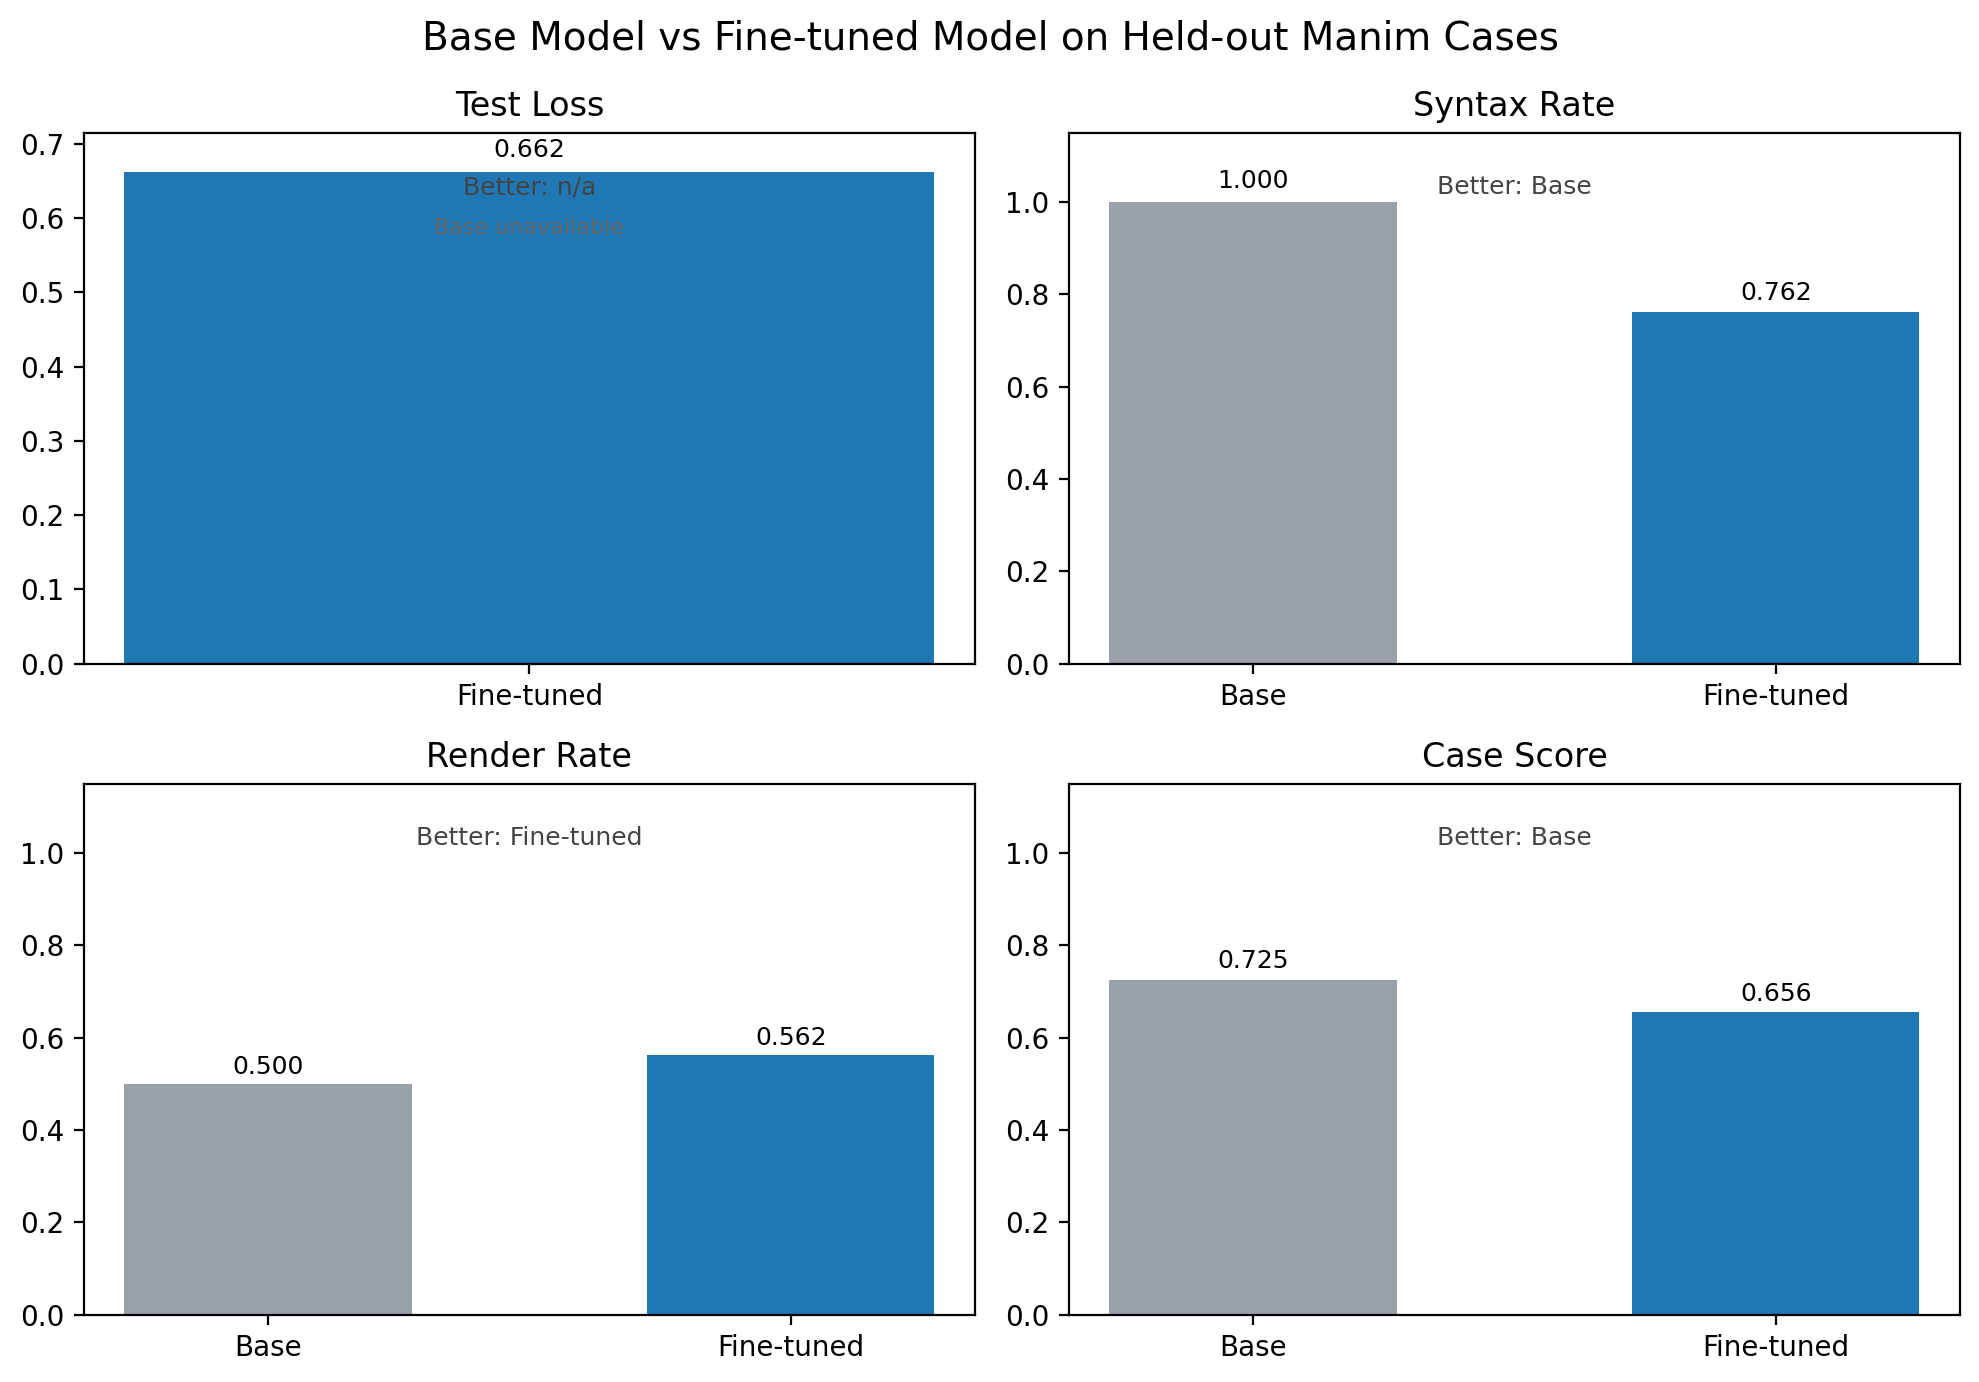
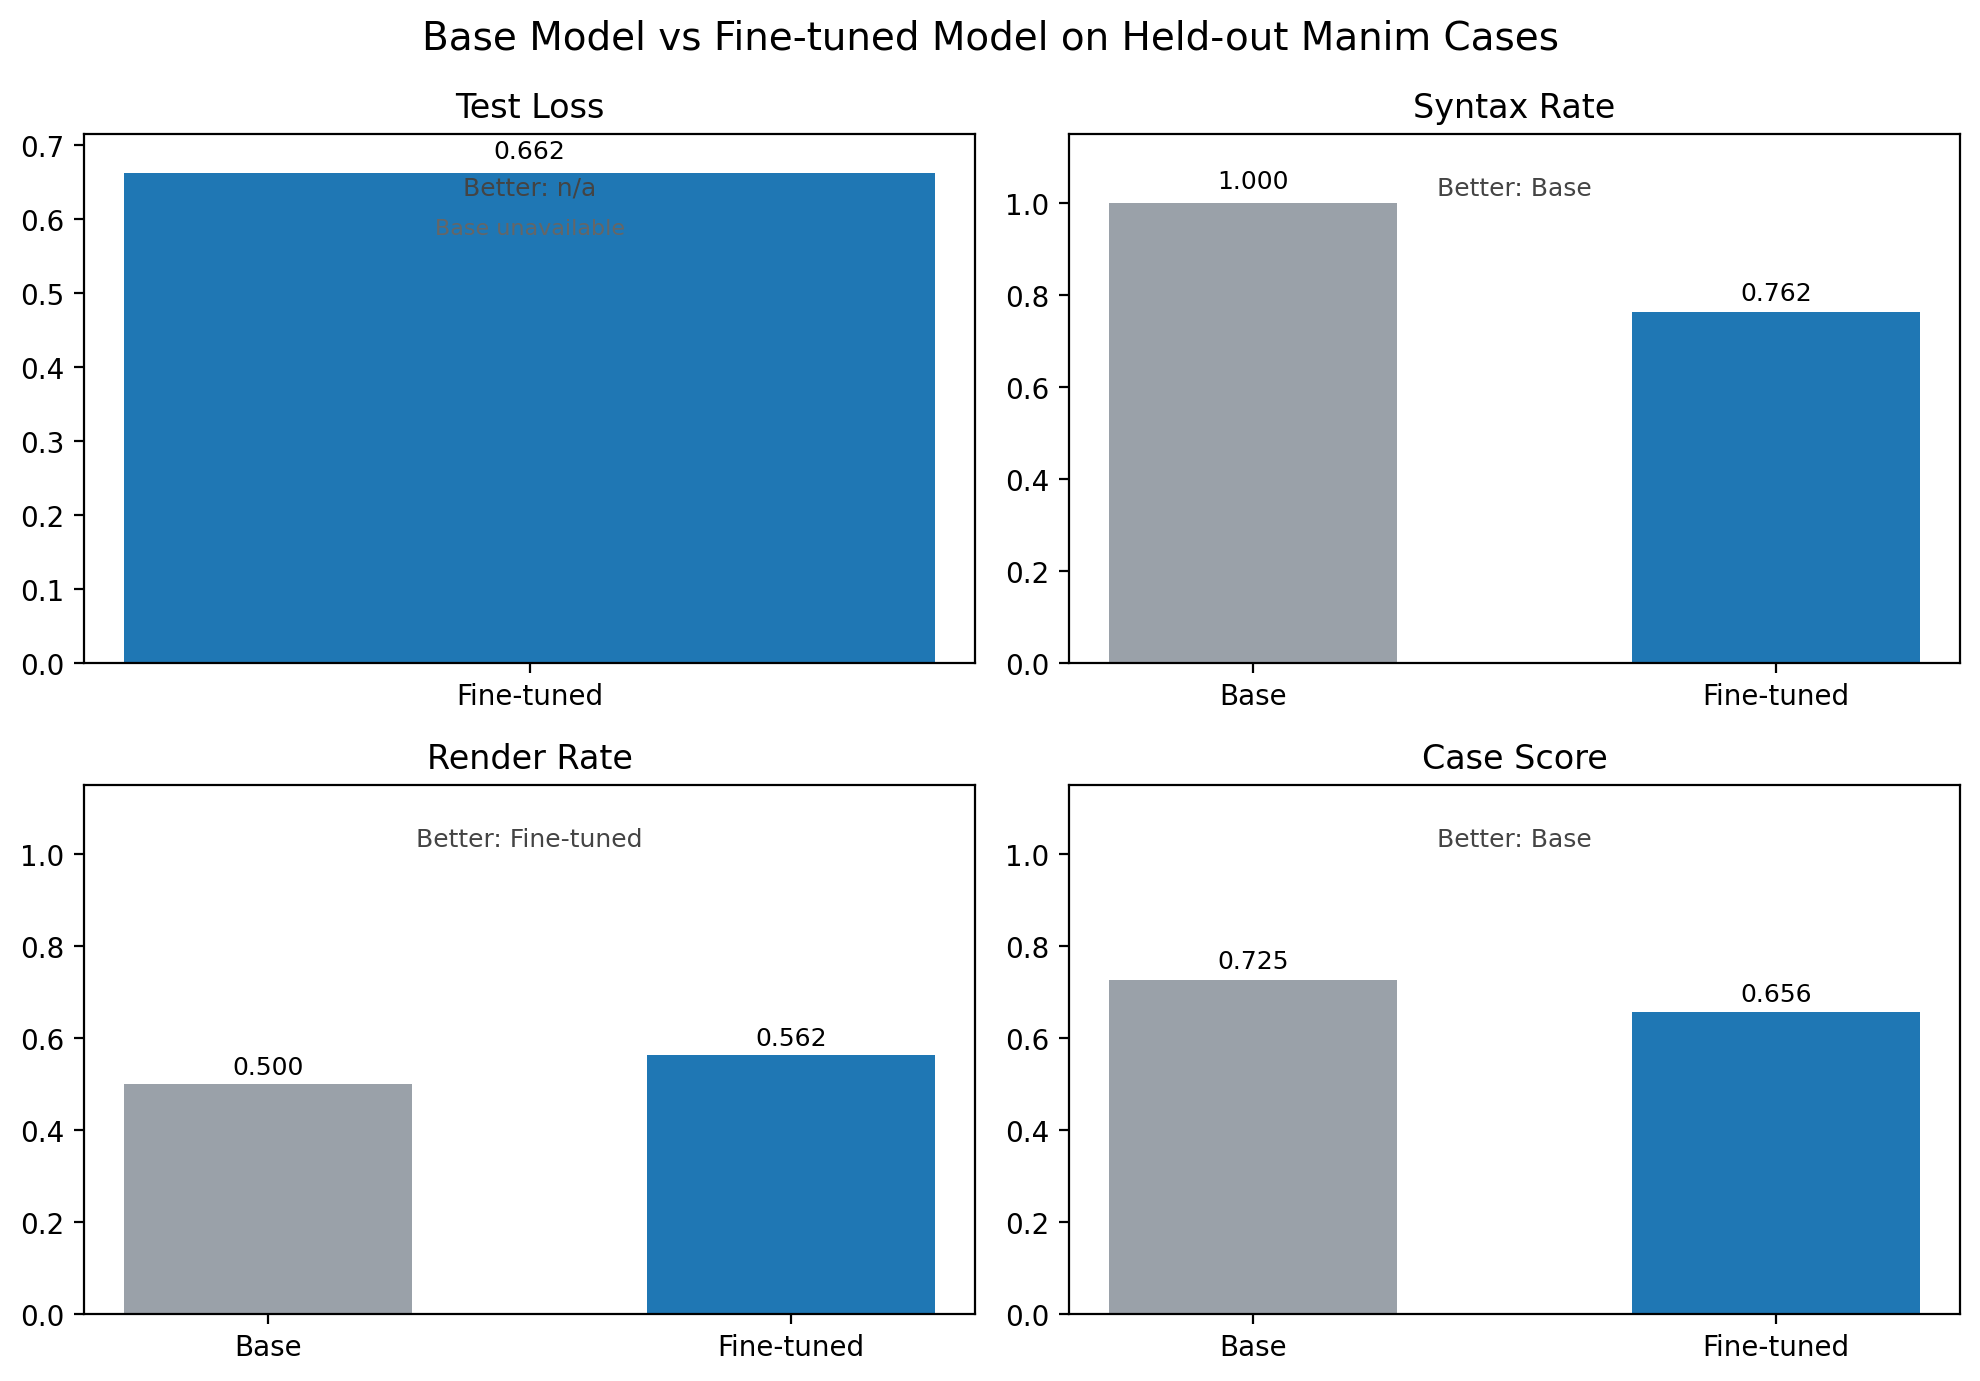
docs: design manim round13 expansion

diff --git a/docs/superpowers/specs/2026-05-11-manim-dataset-round13-design.md b/docs/superpowers/specs/2026-05-11-manim-dataset-round13-design.md
@@ -1,0 +1,130 @@
+# Manim Dataset Round 13 Expansion And Hugging Face Preview Fix
+
+Date: 2026-05-11
+
+## Context
+
+The `autoresearch_manim_finetune` repo publishes a Hugging Face dataset, `sebastianboehler/autoresearch-manim`, from the canonical local dataset at `data/manim_dataset.jsonl`. The public dataset card has a preview gallery, but the rendered page currently shows broken image placeholders.
+
+The local export in `artifacts/hf_datasets/autoresearch-manim/README.md` references suffixed preview files such as `assets/ml-attention-1.png`. The live Hugging Face dataset repository currently contains unsuffixed files such as `assets/ml-attention.png`, so the card references paths that do not exist on the Hub.
+
+The repo already has a suitable sample workflow:
+
+- stage new synthetic rows in `data/manim_review_candidates_*.json` or `.jsonl`
+- render staged rows with `uv run python -m mac_pipeline.cli render-review-candidates`
+- review rendered samples with the sample review app or a review JSONL
+- promote approved rows with `uv run python -m mac_pipeline.cli promote-review-candidates`
+- rebuild the canonical dataset through `scripts/rebuild_canonical_dataset.py`
+
+## Goals
+
+- Fix the Hugging Face dataset card preview gallery so uploaded image links resolve reliably.
+- Add 30 new high-quality plain-Manim candidate samples for community-facing dataset expansion.
+- Verify candidate quality before promotion into the canonical dataset.
+- Keep the implementation aligned with existing shard, render, review, promote, and export paths.
+
+## Non-Goals
+
+- Do not add external Manim libraries, remote assets, mock data, or fallback sample rows.
+- Do not bypass candidate review by directly editing only `data/manim_dataset.jsonl`.
+- Do not change the fine-tuning architecture or benchmark model selection as part of this work.
+- Do not require a new Hugging Face dataset layout unless the existing export path cannot be made reliable.
+
+## Recommended Approach
+
+Use a staged Round 13 candidate shard plus a small Hugging Face card/export fix.
+
+The gallery fix should make preview asset names deterministic and stable. When copying preview items into the export directory, the exporter should preserve the original basename if no duplicate path exists in the current export operation. The generated README should reference exactly the files that will be uploaded. A verification step should confirm that every Markdown image path in the generated dataset card exists inside the export directory.
+
+The sample expansion should create `data/manim_review_candidates_round13_public_quality.json` with 30 candidate records. Each row should follow the existing case schema and include:
+
+- `case_id`
+- `prompt`
+- `completion`
+- `entry_scene`
+- `tags`
+- `must_contain`
+- `must_not_contain`
+- `source_name`
+- `source_domain`
+- `source_repo_path`
+- `uses_custom_library: false`
+- `is_plain_manim_candidate: true`
+- `requires_manual_conversion: false`
+- `target_duration_seconds`
+- `target_duration_tolerance_seconds`
+- `license: MIT`
+
+After rendering and review, approved candidates should be promoted into `data/manim_review_promoted.jsonl`, and `data/manim_dataset.jsonl` should be rebuilt from canonical sources.
+
+## Candidate Mix
+
+The 30 samples should improve public dataset value rather than only inflate count.
+
+- 10 compact learning-app explainers, usually 12-18 seconds
+- 6 math, calculus, and linear algebra scenes
+- 5 machine-learning or code-visualization scenes
+- 4 physics or engineering scenes
+- 3 economics or statistics scenes
+- 2 biology or chemistry scenes
+
+Most scenes should be compact, clear educational explainers. A small minority can use more advanced Manim APIs such as `MovingCameraScene`, `ZoomedScene`, `ThreeDScene`, `Surface`, `StreamLines`, `TransformMatchingTex`, or `Code`, but only where that API directly improves the teaching value.
+
+## Quality Bar
+
+Each sample should teach one clear idea with a visible visual arc. Good rows should have:
+
+- plain Manim Community Edition code with `from manim import *`
+- exactly one scene class
+- no external assets or custom libraries
+- stable layout with readable text
+- 3-5 intentional animation beats
+- meaningful `must_contain` checks tied to the requested Manim constructs
+- `must_not_contain` checks for forbidden custom library use when relevant
+- row-level MIT license metadata
+
+Samples should avoid:
+
+- dense paragraphs on screen
+- decorative complexity without explanatory value
+- fragile camera choreography unless the scene is specifically about camera behavior
+- repeated waits or highlight loops that technically render but feel low quality
+- code that depends on file system assets, network access, or unsupported plugins
+
+## Verification
+
+Use layered verification before considering the work complete:
+
+1. Run schema/load checks against the Round 13 candidate shard.
+2. Check for duplicate `case_id` values across existing canonical cases, promoted rows, rejected rows, and the new candidate shard.
+3. Run the static generation-quality audit on the new completions.
+4. Render the candidate shard with the existing `render-review-candidates` command.
+5. Promote only rows with successful renders and acceptable manual review decisions.
+6. Rebuild `data/manim_dataset.jsonl`.
+7. Regenerate the Hugging Face export.
+8. Verify every dataset-card Markdown image path exists in the regenerated export directory.
+9. Check the live or upload-ready Hugging Face asset paths use the same filenames referenced by the card.
+
+## Error Handling
+
+If a candidate fails schema validation, duplicate-id checks, static quality audit, or rendering, fix the candidate record directly or leave it unpromoted. Do not add fallback rows to reach the target count. If fewer than 30 rows pass, generate replacement candidates and run the same verification path.
+
+If preview images still fail after export regeneration, prefer stable local asset references over removing the gallery. Remove the preview gallery only if verified image assets cannot be uploaded or resolved through the Hugging Face dataset card renderer.
+
+## Files Expected To Change
+
+- `mac_pipeline/hf_dataset.py` for deterministic preview asset copying and card path verification.
+- Tests covering preview item filename stability and missing-card-asset detection.
+- `data/manim_review_candidates_round13_public_quality.json` for staged samples.
+- `data/manim_review_promoted.jsonl` after approved promotion.
+- `data/manim_dataset.jsonl` after canonical rebuild.
+- `artifacts/hf_datasets/autoresearch-manim/README.md` and `assets/` after export regeneration.
+- Optional review artifacts under `artifacts/review_candidate_renders/round13_public_quality/`.
+
+## Completion Criteria
+
+- The generated Hugging Face dataset card has no broken local preview image references.
+- The Round 13 shard starts with 30 high-quality candidate samples, and the final promoted dataset gains 30 newly approved samples from that shard after replacement of any failed candidates.
+- Render results and promotion decisions are traceable through existing artifact and review files.
+- The canonical dataset rebuild succeeds.
+- Relevant automated tests pass.
